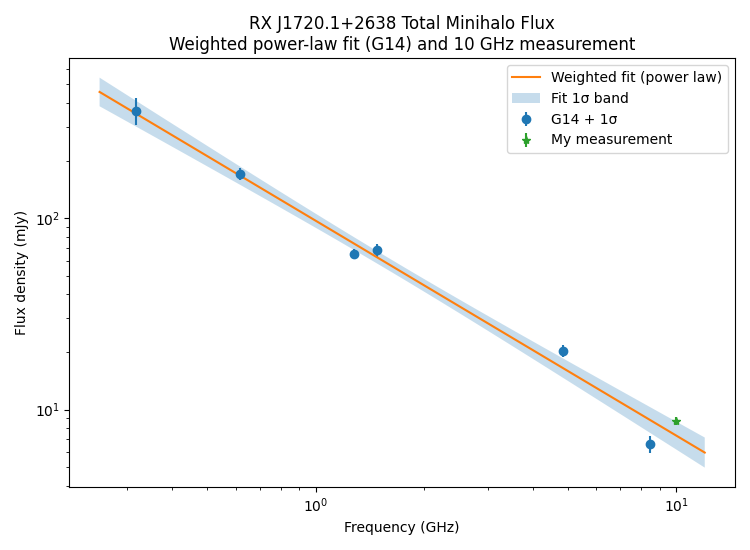
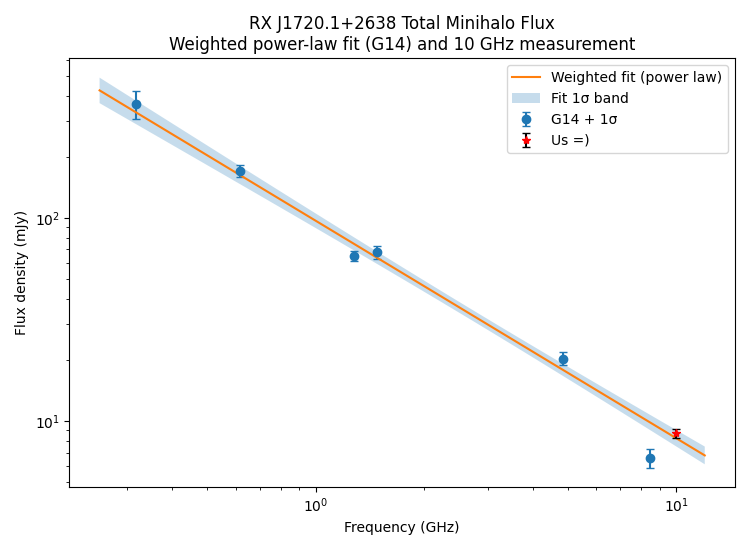
feat: Adding better analysis plots for minihalo flux

diff --git a/Image-Processing/RXJ1720.1+2638/minihalo/minihalo_flux.py b/Image-Processing/RXJ1720.1+2638/minihalo/minihalo_flux.py
@@ -1,63 +1,301 @@
 import math
+from dataclasses import dataclass
+from typing import Callable, Tuple, Optional
 
 import numpy as np
 import pandas as pd
 import matplotlib.pyplot as plt
 
-# G14 Data (GHz + mJy units), minihalo total
-freq = np.array([0.317, 0.617, 1.28, 1.48, 4.86, 8.44])
-flux = np.array([365, 170, 65, 68, 20.3, 6.6])
-flux_err = np.array([58, 12, 4, 5, 1.5, 0.7])
 
-# Assume power law fit BS^-A -> log10(B) - Alog10(S) -> f = ax + b (a = -A, x = log10(S), b = log10(B))
-# Need dx so with x = log10(S), dx ~ d(log10(S)) = ln(S)/ln(10) = dS/(ln(10) * S)
-log_error = flux_err / (flux * np.log(10))
-weights = 1 / log_error
-coeffs, cov = np.polyfit(np.log10(freq), np.log10(flux), 1, w=weights, cov=True)
+@dataclass(frozen=True)
+class PowerLawFit:
+    """
+    Power-law fit in log10-space:
 
-# Get the actual coefs
-a, b = coeffs
-alpha = -a
-beta = 10 ** b
-sigma_alpha = np.sqrt(cov[0,0])  # Negative doesn't matter
-sigma_b = np.sqrt(cov[1,1])
+        log10(S) = a * log10(nu) + b
+        S = beta * nu^{-alpha}, where alpha = -a, beta = 10**b
 
-# Predicted value at 10GHz
-f_meas = 10
-x_meas = np.log10(f_meas)
-y_meas_pred = a * x_meas + b
-S_meas_pred = 10 ** y_meas_pred
-# Error to image value + discrepancy to prediction
-sigma_y_pred = np.sqrt(np.array([x_meas, 1.0]) @ cov @ np.array([x_meas, 1.0]))  # Calc variance from the fit
-sigma_S_pred = np.log(10) * S_meas_pred * sigma_y_pred  # Calculate the flux sigma from inverse of prev formula
+    Attributes
+    ----------
+    a, b : float
+        Linear coefficients in log10 space.
+    cov : (2,2) ndarray
+        Covariance matrix of [a, b].
+    alpha, beta : float
+        Power-law parameters S = beta * nu^{-alpha}.
+    sigma_alpha, sigma_b : float
+        1-sigma uncertainties on alpha and b (in log10 space).
+    """
+    a: float
+    b: float
+    cov: np.ndarray
+    alpha: float
+    beta: float
+    sigma_alpha: float
+    sigma_b: float
 
-# Measured vals for total minihalo flux
-S_meas = 8.72
-sigma_meas = 0.44
+    def predict_S(self, nu: np.ndarray | float) -> np.ndarray | float:
+        """Predict S(nu) in mJy."""
+        x = np.log10(nu)
+        y = self.b + self.a * x
+        return 10.0 ** y
 
-# Get sigma deviation
-delta_S = S_meas - S_meas_pred
-z_fit = delta_S / sigma_S_pred
-sigma_combined = np.sqrt(sigma_S_pred**2 + sigma_meas**2)
-z_combined = delta_S / sigma_combined
+    def sigma_y_at(self, nu: np.ndarray | float) -> np.ndarray | float:
+        """Uncertainty of y=log10(S) at frequency nu."""
+        x = np.log10(nu)
+        # var(y) = [x, 1] @ cov @ [x, 1]^T
+        v = np.vstack([np.atleast_1d(x), np.ones_like(np.atleast_1d(x))])  # shape (2, N)
+        var_y = (v * (self.cov @ v)).sum(axis=0)
+        sig_y = np.sqrt(var_y)
+        return sig_y if np.ndim(x) else float(sig_y)
 
-# Plotting as provided by ChatGPT since I don't know how to plot the filled bit :)
-nu_grid = np.logspace(np.log10(freq.min()) - 0.1, np.log10(12.0), 400)
-xg = np.log10(nu_grid)
-yg = b + a * xg
-Sg = 10**yg
+    def sigma_S_at(self, nu: np.ndarray | float) -> np.ndarray | float:
+        """Uncertainty of S at frequency nu via error propagation."""
+        S = self.predict_S(nu)
+        sig_y = self.sigma_y_at(nu)
+        sig_S = np.log(10.0) * S * sig_y
+        return sig_S
 
-A = np.vstack([xg, np.ones_like(xg)])  # shape (2,N)
-var_y_g = (A * (cov @ A)).sum(axis=0)   # v^T C v for each column
-sig_y_g = np.sqrt(var_y_g)
-Sg_upper = 10**(yg + sig_y_g)
-Sg_lower = 10**(yg - sig_y_g)
 
+def fit_powerlaw(freq: np.ndarray, flux: np.ndarray, flux_err: np.ndarray) -> PowerLawFit:
+    """
+    Weighted linear fit in log10-space. Weights are 1/sigma_y, where
+    sigma_y = flux_err / (ln(10)*flux).
+
+    Returns a PowerLawFit with helpers to evaluate S(nu) and uncertainties.
+    """
+    freq = np.asarray(freq, dtype=float)
+    flux = np.asarray(flux, dtype=float)
+    flux_err = np.asarray(flux_err, dtype=float)
+
+    # y = log10(S), x = log10(nu), sigma_y by propagation
+    x = np.log10(freq)
+    y = np.log10(flux)
+    sigma_y = flux_err / (flux * np.log(10.0))
+    w = 1.0 / sigma_y
+
+    coeffs, cov = np.polyfit(x, y, 1, w=w, cov=True)
+    a, b = coeffs
+    alpha = -a
+    beta = 10.0 ** b
+    sigma_alpha = math.sqrt(cov[0, 0])  # same as sigma_a; sign doesn’t matter for alpha
+    sigma_b = math.sqrt(cov[1, 1])
+
+    return PowerLawFit(a=a, b=b, cov=cov, alpha=alpha, beta=beta,
+                       sigma_alpha=sigma_alpha, sigma_b=sigma_b)
+
+
+def prepare_plot_band(fit: PowerLawFit,
+                      nu_min: float,
+                      nu_max: float,
+                      n_points: int = 400) -> Tuple[np.ndarray, np.ndarray, np.ndarray, np.ndarray]:
+    """
+    Produce log-spaced grid and the 1σ band around the fit, ready for plotting.
+
+    Returns
+    -------
+    nu_grid, S_fit, S_lower, S_upper
+    """
+    nu_grid = np.logspace(np.log10(nu_min), np.log10(nu_max), n_points)
+    S_fit = fit.predict_S(nu_grid)
+    sig_y = fit.sigma_y_at(nu_grid)
+    # Convert ±sigma in log space to multiplicative bounds in linear space
+    S_upper = 10.0 ** (np.log10(S_fit) + sig_y)
+    S_lower = 10.0 ** (np.log10(S_fit) - sig_y)
+    return nu_grid, S_fit, S_lower, S_upper
+
+
+def point_deviation_from_fit(fit: PowerLawFit,
+                             nu_meas: float,
+                             S_meas: float,
+                             sigma_meas: float) -> Tuple[float, float, float, float]:
+    """
+    Compare a single measurement against the fit at nu_meas.
+
+    Returns
+    -------
+    S_pred : float
+        Predicted flux from the fit.
+    sigma_pred : float
+        1σ uncertainty from the fit at nu_meas.
+    z_fit : float
+        (S_meas - S_pred) / sigma_pred      — deviation vs. fit uncertainty only.
+    z_combined : float
+        (S_meas - S_pred) / sqrt(sigma_pred^2 + sigma_meas^2) — combined uncertainty.
+    """
+    S_pred = float(fit.predict_S(nu_meas))
+    sigma_pred = float(fit.sigma_S_at(nu_meas))
+    delta = S_meas - S_pred
+    z_fit = delta / sigma_pred if sigma_pred > 0 else np.nan
+    sigma_combined = math.sqrt(sigma_pred**2 + sigma_meas**2)
+    z_combined = delta / sigma_combined if sigma_combined > 0 else np.nan
+    return S_pred, sigma_pred, z_fit, z_combined
+
+
+# --- Helpers ---
+def _scatter_with_errors(ax, f, s, e, *, label=None, facecolor="k", edgecolor="k", marker="o", star_color="r", star_marker="*", star_ms=7.0):
+    # ax.errorbar(f, s, yerr=e, fmt=marker, mec=edgecolor, mfc=facecolor,
+    #             ecolor=edgecolor, elinewidth=1.0, ms=4.5, lw=0.0, capsize=3, label=label)
+    if f.size > 1:
+        ax.errorbar(
+            f[:-1], s[:-1], yerr=e[:-1],
+            fmt=marker, mec=edgecolor, mfc=facecolor,
+            ecolor=edgecolor, elinewidth=1.0, ms=4.5, lw=0.0, capsize=3,
+            label=label  # keep the legend on the bulk points
+        )
+
+    # Last point is own
+    ax.errorbar(
+        f[-1], s[-1], yerr=e[-1],
+        fmt=star_marker, mec=star_color, mfc=star_color,
+        ecolor=edgecolor, elinewidth=1.0, ms=star_ms, lw=0.0, capsize=3,
+        label=None  # avoid duplicate legend entry
+    )
+
+
+def _fit_line(ax, fit: PowerLawFit, fmin: float, fmax: float, *, ls="--", color="k", lw=1.0, n=200):
+    g = np.logspace(np.log10(fmin), np.log10(fmax), n)
+    ax.plot(g, fit.predict_S(g), ls=ls, color=color, lw=lw)
+    return g
+
+def _fit_with_band(ax, fit, fmin, fmax, *, color="k", ls="--", lw=1.0, alpha=0.18, n_points=400):
+    nu, S_fit, S_lo, S_up = prepare_plot_band(fit, fmin, fmax, n_points=n_points)
+    ax.fill_between(nu, S_lo, S_up, alpha=alpha, linewidth=0, color=color)
+    ax.plot(nu, S_fit, ls=ls, lw=lw, color=color)
+
+
+def _alpha_text(alpha: float, sigma: float) -> str:
+    return rf"$\alpha_{{\rm fit}}={alpha:.2f}\pm{sigma:.2f}$"
+
+
+# --- Plotting ---
+def plot_rxj1720_seds(
+    *,
+    # Panel (a)
+    minihalo: Tuple[np.ndarray, np.ndarray, np.ndarray],
+    bcg: Tuple[np.ndarray, np.ndarray, np.ndarray],
+    # Panel (b)
+    central: Tuple[np.ndarray, np.ndarray, np.ndarray],
+    tail: Tuple[np.ndarray, np.ndarray, np.ndarray],
+    fig_size=(11.5, 5.0),
+    savepath: Optional[str] = None,
+):
+    fig, (axA, axB) = plt.subplots(1, 2, figsize=fig_size)
+
+    # ---------- Panel (a): minihalo + BCG ----------
+    f_mh, s_mh, e_mh = minihalo
+    f_bcg, s_bcg, e_bcg = bcg
+
+    fit_mh = fit_powerlaw(f_mh, s_mh, e_mh)
+    fit_bcg = fit_powerlaw(f_bcg, s_bcg, e_bcg)
+
+    _scatter_with_errors(axA, f_mh, s_mh, e_mh, facecolor="k", edgecolor="k")
+    _scatter_with_errors(axA, f_bcg, s_bcg, e_bcg, facecolor="w", edgecolor="k")
+
+    # Fit lines (dashed) spanning the panel’s frequency range
+    fmin_a = 0.025  # in GHz
+    fmax_a = 30
+    _fit_with_band(axA, fit_mh, fmin_a, fmax_a)
+    _fit_with_band(axA, fit_bcg, fmin_a, fmax_a, ls="-", lw=1.0)
+
+    axA.set_xscale("log")
+    axA.set_yscale("log")
+    axA.set_xlabel("Frequency (GHz)")
+    axA.set_ylabel("Flux (mJy)")
+    axA.set_title("Total flux of minihalo and BCG")
+    axA.set_xlim(0.01, 100)
+    axA.set_ylim(0.3, 5000)
+    axA.text(0.55, 0.70, "minihalo", transform=axA.transAxes)
+    axA.text(0.53, 0.64, _alpha_text(fit_mh.alpha, fit_mh.sigma_alpha), transform=axA.transAxes)
+    axA.text(0.18, 0.18, "BCG", transform=axA.transAxes)
+    axA.text(0.18, 0.12, _alpha_text(fit_bcg.alpha, fit_bcg.sigma_alpha), transform=axA.transAxes)
+
+    # ---------- Panel (b): central + tail ----------
+    f_c, s_c, e_c = central
+    f_t, s_t, e_t = tail
+
+    fit_c = fit_powerlaw(f_c, s_c, e_c)
+    fit_t = fit_powerlaw(f_t, s_t, e_t)
+
+    _scatter_with_errors(axB, f_c, s_c, e_c, facecolor="k", edgecolor="k")
+    _scatter_with_errors(axB, f_t, s_t, e_t, facecolor="k", edgecolor="k", marker="s")
+
+    fmin_b = 0.06   # (60 MHz)
+    fmax_b = 30.0   # 30 GHz
+    _fit_with_band(axB, fit_c, fmin_b, fmax_b)
+    _fit_with_band(axB, fit_t, fmin_b, fmax_b)
+
+    axB.set_xscale("log")
+    axB.set_yscale("log")
+    axB.set_xlabel("Frequency (GHz)")
+    axB.set_title("Total flux of minihalo centre and tail")
+    axB.set_xlim(0.01, 100)
+    axB.set_ylim(0.3, 1000)
+    axB.text(0.58, 0.70, "central part", transform=axB.transAxes)
+    axB.text(0.58, 0.64, _alpha_text(fit_c.alpha, fit_c.sigma_alpha), transform=axB.transAxes)
+    axB.text(0.18, 0.28, "tail", transform=axB.transAxes)
+    axB.text(0.18, 0.22, _alpha_text(fit_t.alpha, fit_t.sigma_alpha), transform=axB.transAxes)
+
+    # Cosmetics to echo the paper’s feel
+    for ax in (axA, axB):
+        ax.minorticks_on()
+        ax.grid(False)
+        # clean legend-less layout
+    fig.tight_layout(w_pad=1.5)
+
+    if savepath:
+        fig.savefig(savepath, dpi=300, bbox_inches="tight")
+    return fig
+
+
+# --- Data ---
+mh_freq = np.array([0.317, 0.617, 1.28, 1.48, 4.86, 8.44, 10])
+mh_flux = np.array([365,   170,   65,    68,    20.3,  6.6, 8.72])
+mh_err  = np.array([58,    12,    4,     5,     1.5,   0.7, 0.44])
+
+bcg_freq = mh_freq
+# Estimated own points now
+bcg_flux = np.array([24, 11, 6.9, 6.7, 2.3, 1.4, 1.27])
+bcg_err  = np.array([2, 1, 0.4, 0.3, 0.1, 0.1, 0.2])
+
+central_freq = mh_freq
+central_flux = np.array([286, 144, 59, 60, 18.7, 6.2, 7.76])
+central_err  = np.array([38, 11, 3, 5, 1.3, 0.6, 0.39])
+
+tail_freq = mh_freq
+tail_flux = np.array([79, 26, 6, 8, 1.6, 0.2, 0.96])
+tail_err  = np.array([6, 2, 1, 1, 0.5, 0.2, 0.08])
+
+# --- Recreate G14 plot with our points ---
+plot_rxj1720_seds(
+    minihalo=(mh_freq, mh_flux, mh_err),
+    bcg=(bcg_freq, bcg_flux, bcg_err),
+    central=(central_freq, central_flux, central_err),
+    tail=(tail_freq, tail_flux, tail_err),
+    savepath="rxj1720_seds.png",
+)
+
+
+# --- Total minihalo only ---
+fit = fit_powerlaw(mh_freq, mh_flux, mh_err)
+
+# Prepare a plotting band (extend a touch below min for nicer look)
+nu_min = 10 ** (np.log10(mh_freq.min()) - 0.1)
+nu_max = 12.0
+nu_grid, S_fit, S_lower, S_upper = prepare_plot_band(fit, nu_min, nu_max, n_points=400)
+
+# Example single-point comparison @ 10 GHz
+nu_meas = mh_freq[-1]
+S_meas = mh_flux[-1]
+sigma_meas = mh_err[-1]
+S_pred, sigma_pred, z_fit, z_combined = point_deviation_from_fit(fit, nu_meas, S_meas, sigma_meas)
+
+# Plot
 plt.figure(figsize=(7.5, 5.5))
-plt.errorbar(freq, flux, yerr=flux_err, fmt='o', label="G14 + 1σ")
-plt.plot(nu_grid, Sg, '-', label="Weighted fit (power law)")
-plt.fill_between(nu_grid, Sg_lower, Sg_upper, alpha=0.25, label="Fit 1σ band")
-plt.errorbar(10, S_meas, yerr=sigma_meas, fmt='*', label="My measurement")
+plt.errorbar(mh_freq[:-1], mh_flux[:-1], yerr=mh_err[:-1], fmt='o', label="G14 + 1σ", capsize=3)
+plt.plot(nu_grid, S_fit, '-', label="Weighted fit (power law)")
+plt.fill_between(nu_grid, S_lower, S_upper, alpha=0.25, label="Fit 1σ band")
+plt.errorbar(nu_meas, S_meas, yerr=sigma_meas, fmt='*', c='r', ecolor='k', label="Us =)", capsize=3)
 plt.xscale('log')
 plt.yscale('log')
 plt.xlabel("Frequency (GHz)")
@@ -65,10 +303,9 @@ plt.ylabel("Flux density (mJy)")
 plt.title("RX J1720.1+2638 Total Minihalo Flux\nWeighted power-law fit (G14) and 10 GHz measurement")
 plt.legend()
 plt.tight_layout()
-
-print(f"alpha = {alpha:.3f} ± {sigma_alpha:.3f}")
-print(f"S_10GHz(pred) = {S_meas_pred:.3f} ± {sigma_S_pred:.3f} mJy")
-print(f"S_10GHz(meas) = {S_meas:.3f} mJy  →  Δ = {delta_S:.4f} mJy,  z_fit = {z_fit:.2f},  z_combined = {z_combined:.2f}")
-print(f"")
-
 plt.savefig("minihalo_fit.png")
+
+# Console summary
+print(f"alpha = {fit.alpha:.3f} ± {fit.sigma_alpha:.3f}")
+print(f"S_10GHz(pred) = {S_pred:.3f} ± {sigma_pred:.3f} mJy")
+print(f"S_10GHz(meas) = {S_meas:.3f} mJy  →  Δ = {S_meas - S_pred:.4f} mJy,  z_fit = {z_fit:.2f},  z_combined = {z_combined:.2f}")

diff --git a/Image-Processing/RXJ1720.1+2638/minihalo/model_minihalo/calculate_flux.py b/Image-Processing/RXJ1720.1+2638/minihalo/model_minihalo/calculate_flux.py
@@ -44,12 +44,14 @@ tail_region = "poly[[17:20:10.50000, +026.38.02.0000], [17:20:11.40000, +026.38.
     "[17:20:09.70000, +026.36.56.0000]]"
 centre_region = rg.fromtext(centre_region, shape=shape, csys=coords)
 tail_region = rg.fromtext(tail_region, shape=shape, csys=coords)
+tail_region = rg.difference(tail_region, centre_region)  # Remove centre
 full_region = rg.makeunion(regions={"c": centre_region, "t": tail_region})
 
+sel_region = centre_region
 os.system(f"cp -r {images[0]}.mask g14_mask.mask")
 ia.open("g14_mask.mask")
-ia.set(0.0, region=rg.complement(full_region))
-ia.set(1.0, region=full_region)
+ia.set(0.0, region=rg.complement(sel_region))
+ia.set(1.0, region=sel_region)
 g14_mask = np.squeeze(np.array(ia.getchunk(), dtype=bool))
 ia.close()
 
@@ -284,4 +286,3 @@ plt.savefig("flux_comparison.png", dpi=300)
 trim_border = 900
 plot_masks_by_df(masks, df, trim_fn=lambda x: np.flip(x.T, 0)[trim_border:-trim_border, trim_border:-trim_border])
 plt.savefig("mask_comparison.png", dpi=300)
-plt.show()

diff --git a/cal_tools.py b/cal_tools.py
@@ -66,7 +66,7 @@ def self_calibrate(iteration: int, antenna: str, source: str = None, dest: str =
     """
     prefixes = ["cconfig", "dconfig1", "dconfig2"]
     # Set up inputs and outputs
-    if iteration == 0:
+    if iteration == 1:
         data_in = ["cconfig.ms", "dconfig_1.ms", "dconfig_2.ms"]
     elif source is None:
         last_iter = iteration - 1
